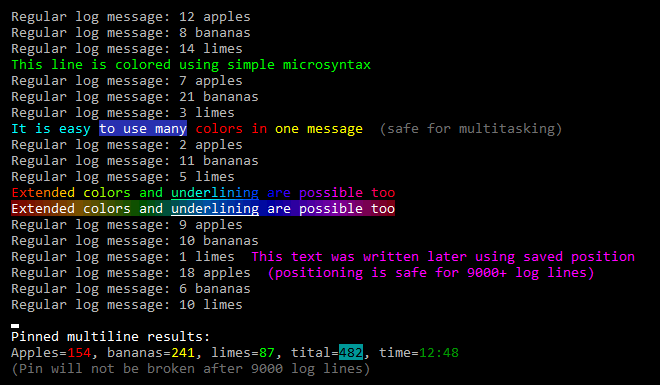
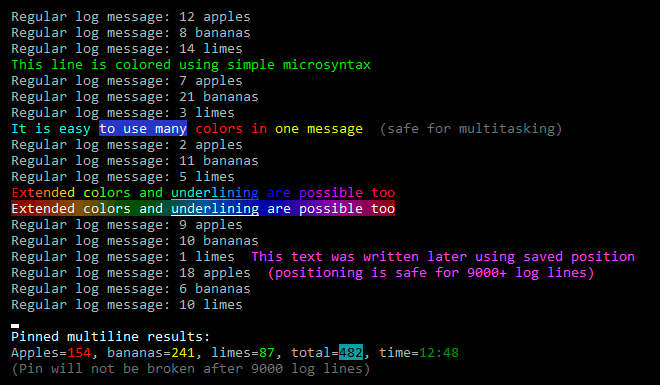
Images quality

diff --git a/XConsole.Demo/Screenshots.cs b/XConsole.Demo/Screenshots.cs
@@ -51,7 +51,7 @@ public static class Screenshots
         Console.Pin(() =>
         [
             "W`Pinned multiline results:\n",
-            "Apples=", "R`154", ", bananas=", "Y`241", ", limes=", "G`87", ", tital=", "nc`482", ", time=", "g`12:48\n",
+            "Apples=", "R`154", ", bananas=", "Y`241", ", limes=", "G`87", ", total=", "nc`482", ", time=", "g`12:48\n",
             "d`(Pin will not be broken after 9000 log lines)"
         ]);
 
@@ -95,7 +95,7 @@ public static class Screenshots
         Console.WriteLine($"Aqua with {"a navy".BgColor(Color.Navy)} background".Color(Color.Aqua));
     }
 
-    public static void DynamicPin1()
+    public static void Pin1()
     {
         var value = 25;
         Console.WriteLine("Regular log message");
@@ -109,7 +109,7 @@ public static class Screenshots
                 return;
     }
 
-    public static void DynamicPin2()
+    public static void Pin2()
     {
         var value = 25;
         Console.WriteLine("Regular log message");
@@ -123,7 +123,7 @@ public static class Screenshots
                 return;
     }
 
-    public static void DynamicPin3()
+    public static void Pin3()
     {
         var value = 25;
         Console.WriteLine("Regular log message");
